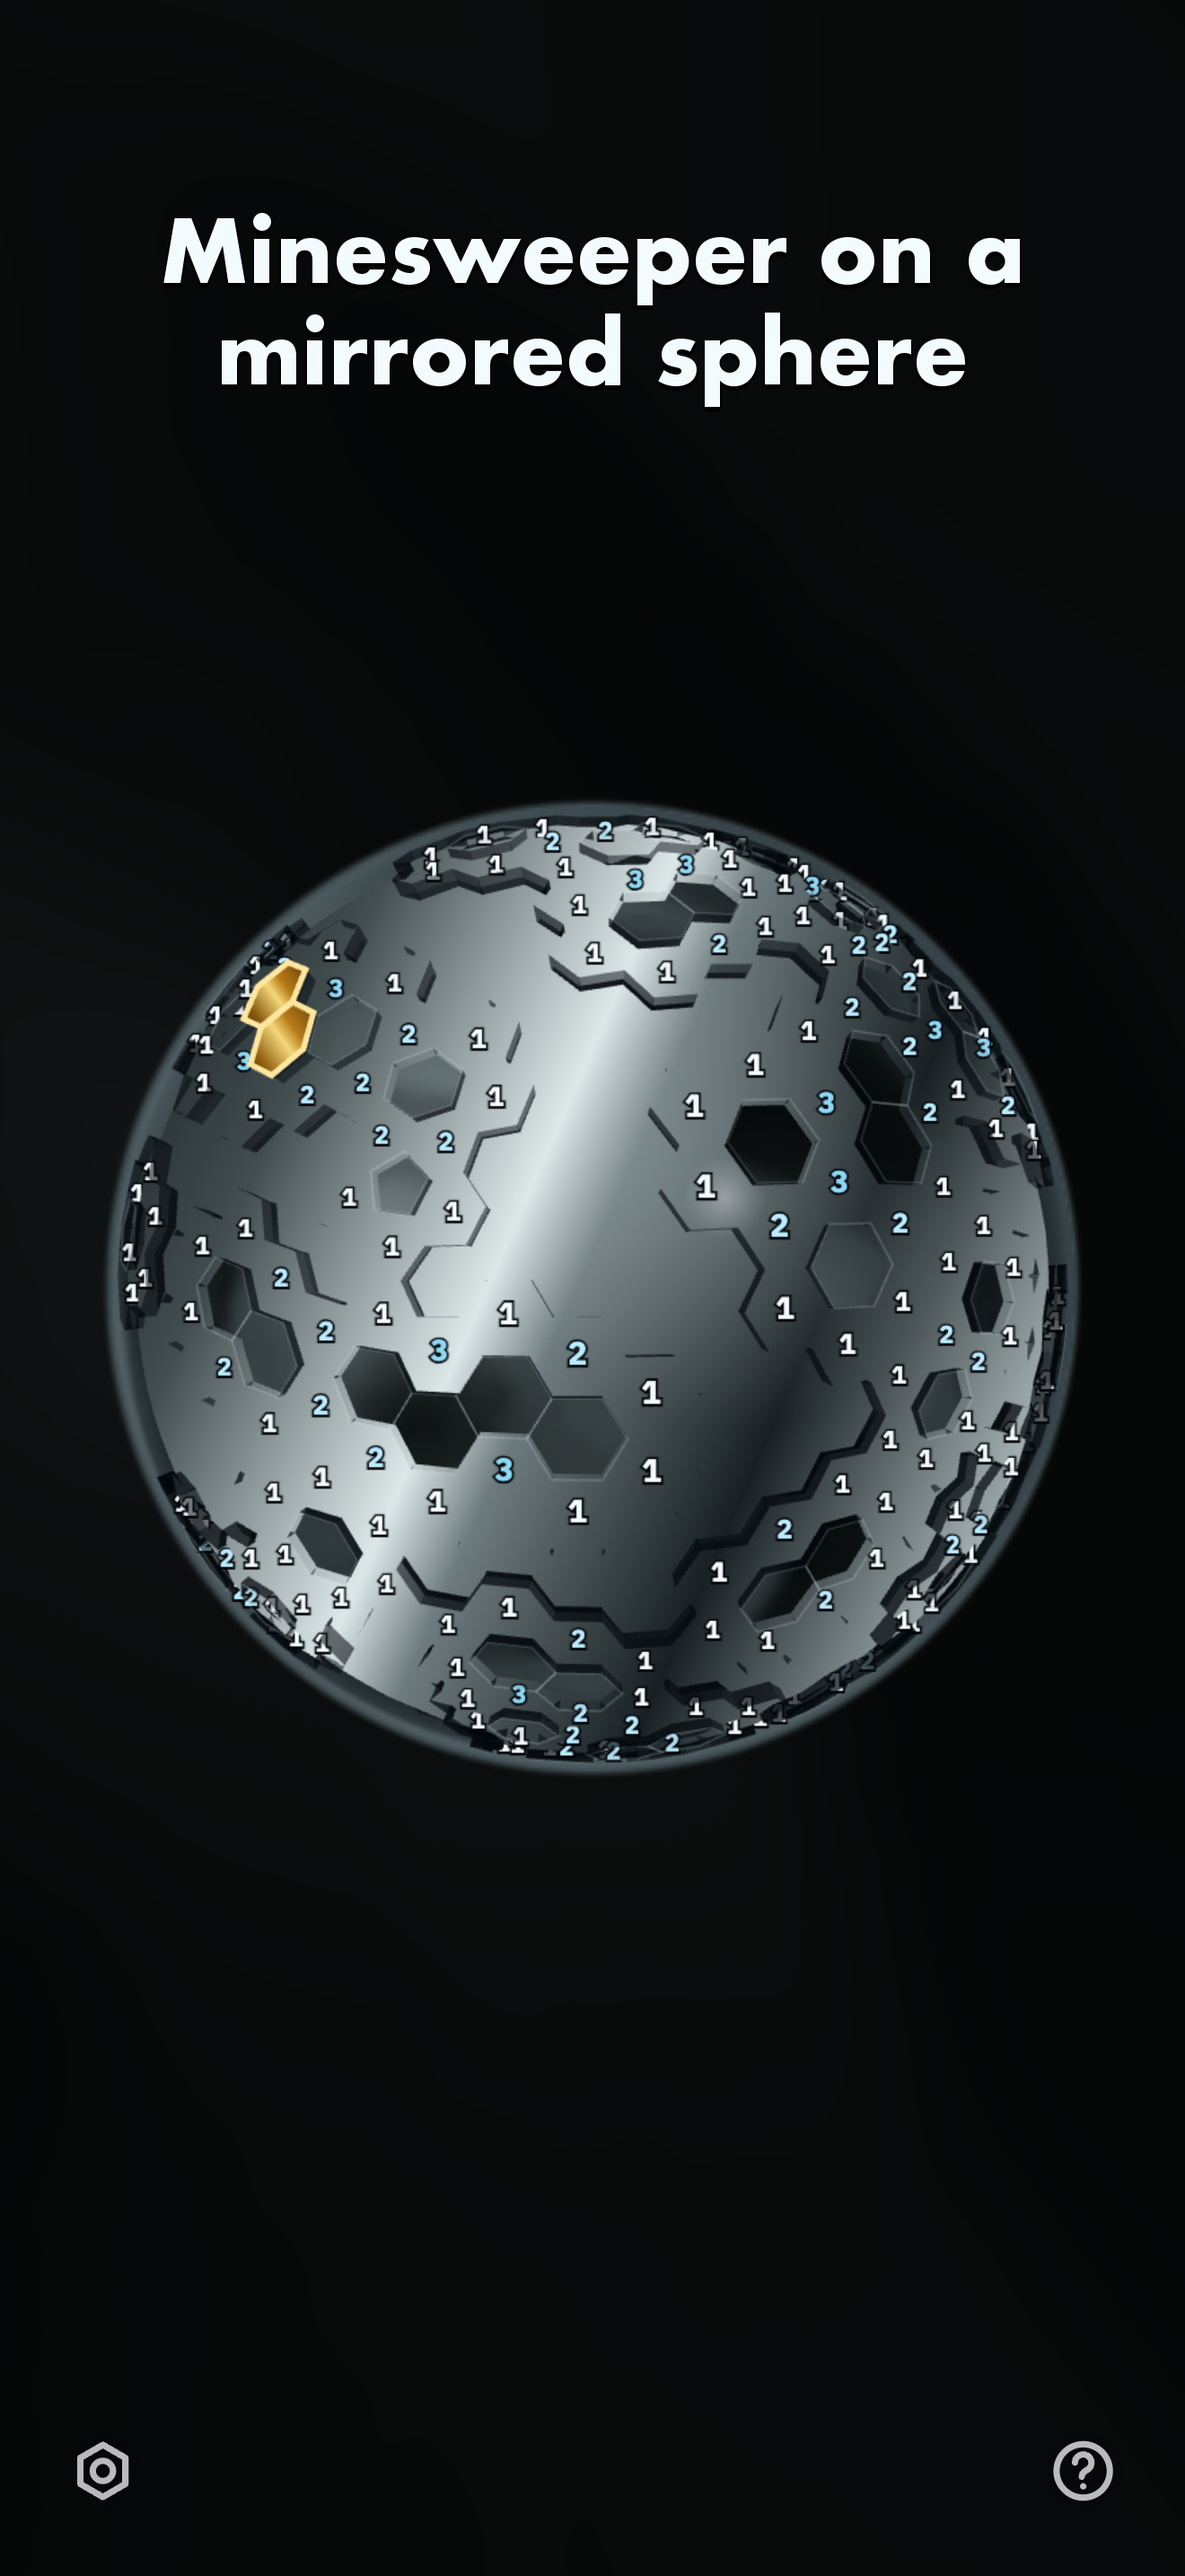
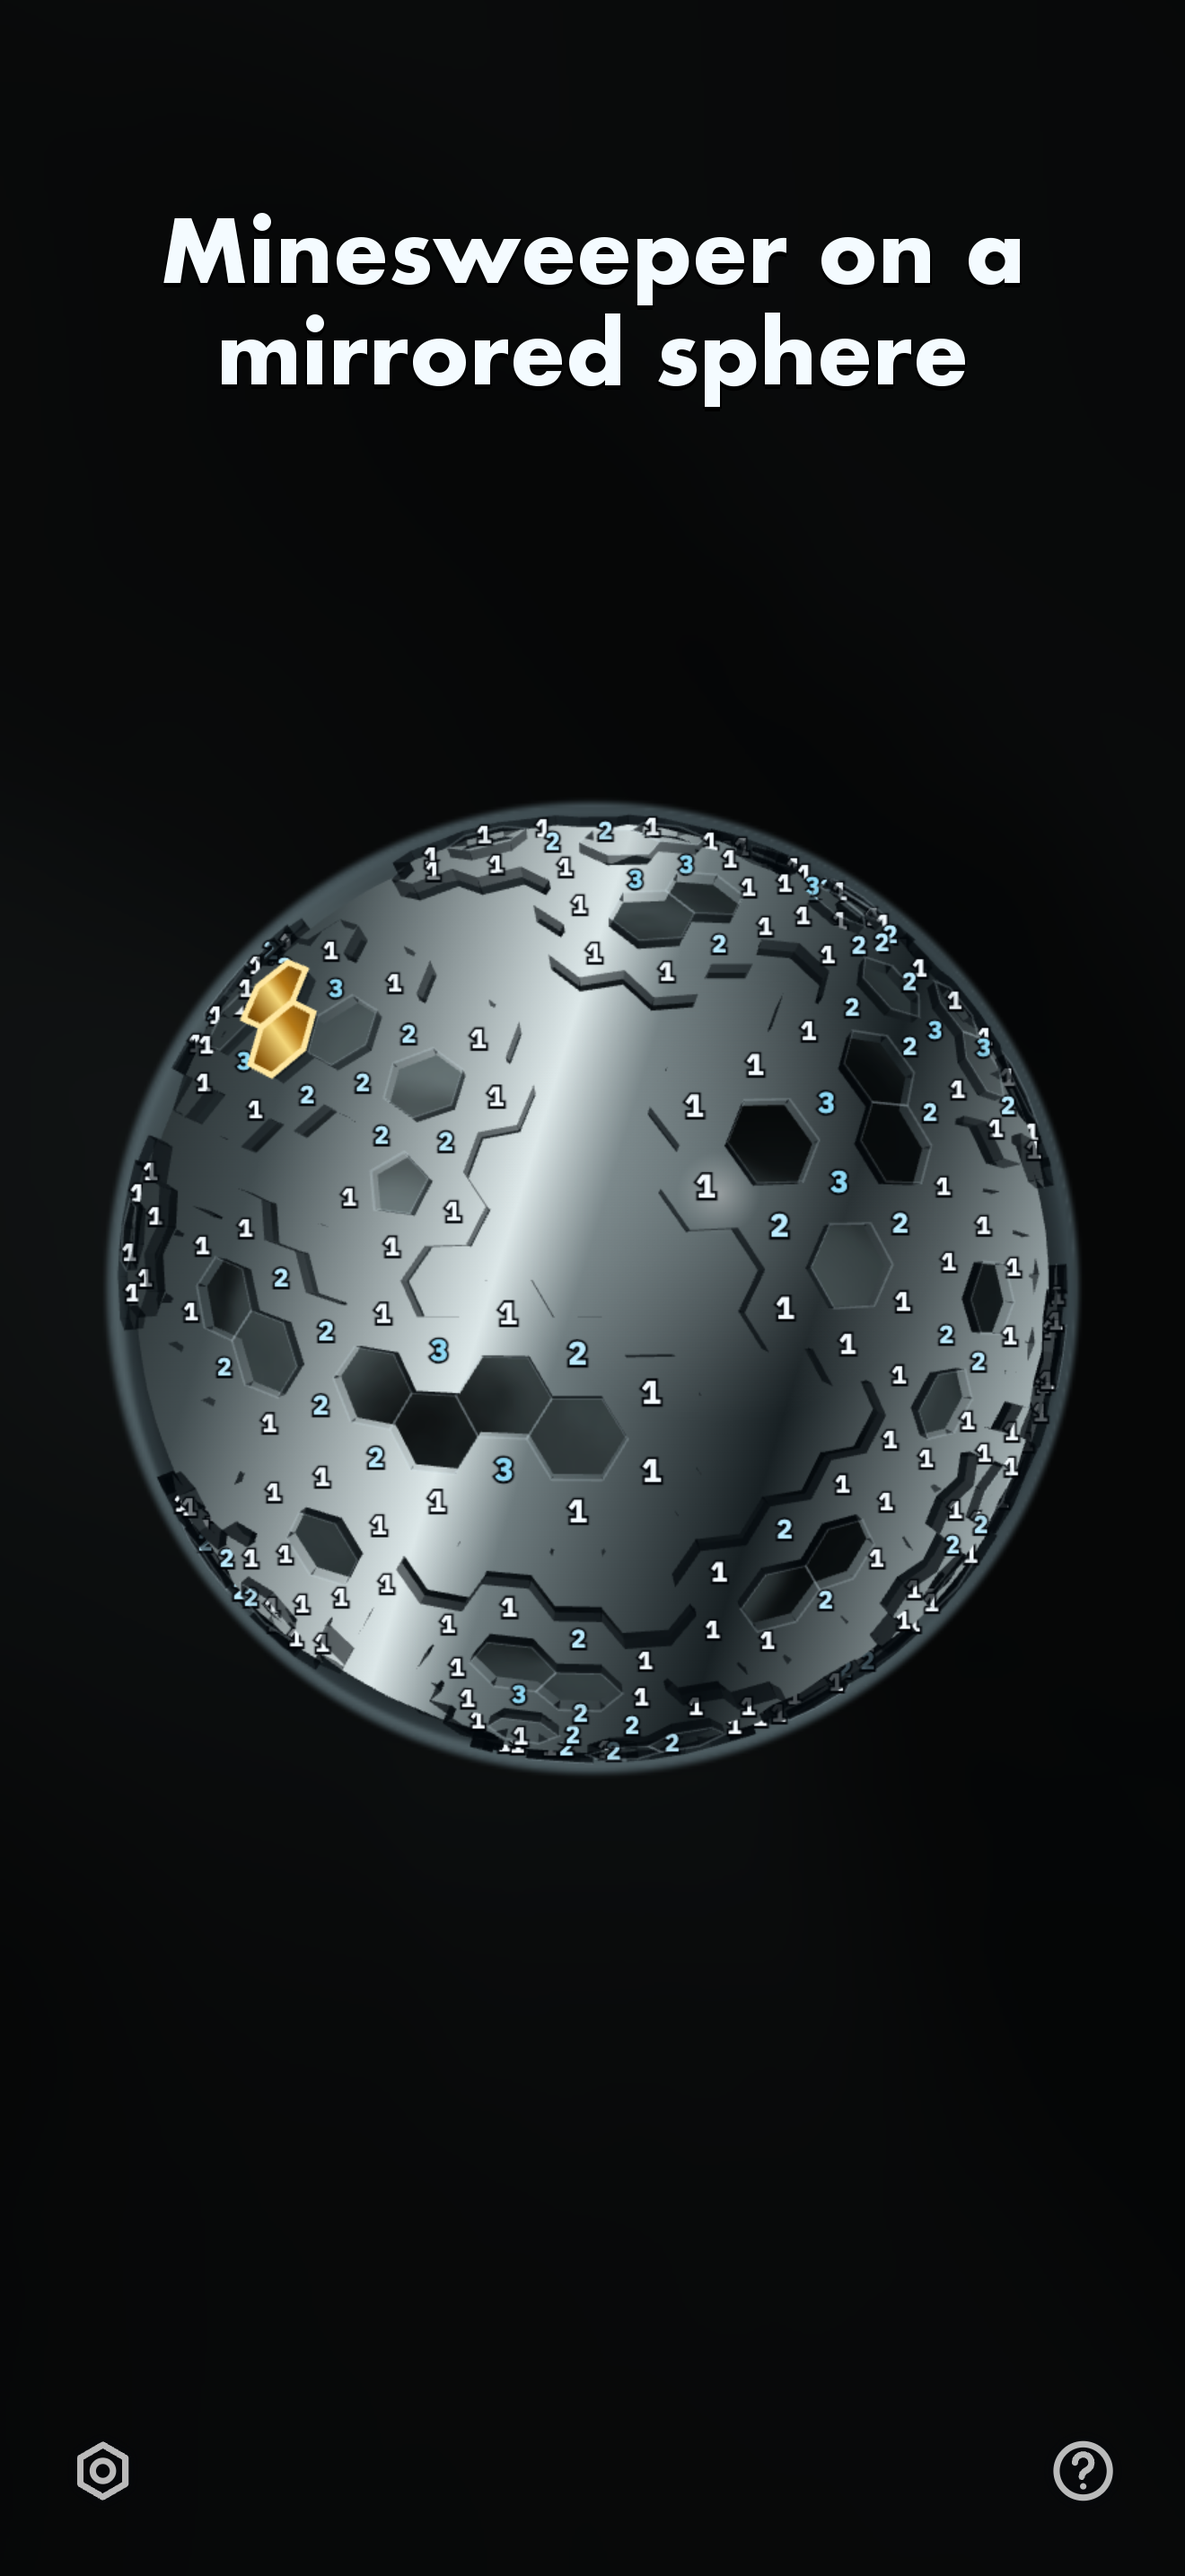
build: flower off the sphere, no scrim blur; TestFlight build 46 attached to 1.0
Payload re-vendored from hexsweeper e7585a0. Store screenshots regenerated
(03-flower now shows the menu below the sphere with the board sharp).
CURRENT_PROJECT_VERSION 45 → 46; build 46 uploaded 2026-08-18 and attached
to the 1.0 version in App Store Connect.

Changed region(s): [[0.4348, 0.3103, 0.6523, 0.4344], [0.1864, 0.5586, 0.4348, 0.6827], [0.5902, 0.6517, 0.6212, 0.6827]]

diff --git a/www/index.html b/www/index.html
@@ -782,14 +782,14 @@ body[data-sphere-chrome="dark"] .cz-dot {
   -webkit-tap-highlight-color: transparent;
 }
 
-/* Full-screen blur plate — only intercepts when open */
+/* Full-screen tap plate — only intercepts when open. Deliberately clear:
+   the flower sits off the sphere and its Theme tile previews on the live
+   board, so nothing may fog or tint the sphere while the menu is up. */
 .hex-bloom-scrim {
   position: absolute;
   inset: 0;
   z-index: 0;
-  background: var(--hb-scrim);
-  -webkit-backdrop-filter: blur(5px) saturate(1.02);
-  backdrop-filter: blur(5px) saturate(1.02);
+  background: transparent;
   opacity: 0;
   visibility: hidden;
   pointer-events: none;
@@ -2411,7 +2411,7 @@ body.help-open { overflow: hidden; }
     </ul>
     <div class="help-body">
       <p>Clear every safe face. Numbers count mines among the six touching neighbors. Solid red faces are flags.</p>
-      <p>Tap the menu button (bottom left) or anywhere outside the sphere to open the center menu: reset, undo, flag mode, board size, theme (Light, Dark, then Stratosphere, Mercury, Ion Storm, Aurora, Galaxy, Gilded Ribbon, Heat Lightning), warning style, and drag inversion. Progress autosaves. Reset or a size change starts a new sphere.</p>
+      <p>Tap the menu button (bottom left) or anywhere outside the sphere to open the menu — it sits beside the board, so theme taps preview live: reset, undo, flag mode, board size, theme (Light, Dark, then Stratosphere, Mercury, Ion Storm, Aurora, Galaxy, Gilded Ribbon, Heat Lightning), warning style, and drag inversion. Progress autosaves. Reset or a size change starts a new sphere.</p>
     </div>
     <p class="help-keys"><kbd>C</kbd> menu · <kbd>F</kbd> flag · <kbd>N</kbd> counts · <kbd>R</kbd> reset · <kbd>?</kbd> help</p>
     <div class="help-history-row">
@@ -10032,6 +10032,34 @@ void main() {
     }
 
     // ---- Hex math (clex) ----
+    /**
+     * Where the center flower sits. It used to sit on the sphere's own
+     * center under a blur plate; with nine themes previewing live that hid
+     * the one thing the menu changes. Now the board stays sharp and the
+     * flower moves off it: below the sphere on portrait phones, beside it on
+     * wide screens, and only when neither fits does it overlap the lower rim.
+     * A flower is three rows: 2.5 × tile height, 3 tiles wide.
+     */
+    function flowerAnchor(w, h) {
+      const disk =
+        typeof game.getSphereScreen === "function" ? game.getSphereScreen() : null;
+      if (!disk || !disk.r) return { cx: w / 2, cy: h / 2 };
+      const { tileH, tileW } = tileMetrics();
+      const flowerH = tileH * 2.5;
+      const flowerW = tileW * 3;
+      const gap = Math.max(10, tileH * 0.16);
+      const bottomChrome = 76; // corner glyphs + home indicator
+      const topChrome = 64; // mines / timer hub
+      const bottomLimit = h - bottomChrome;
+      const belowCy = disk.cy + disk.r + gap + flowerH / 2;
+      if (belowCy + flowerH / 2 <= bottomLimit) return { cx: w / 2, cy: belowCy };
+      const besideCx = disk.cx + disk.r + gap + flowerW / 2;
+      if (besideCx + flowerW / 2 <= w - 12) return { cx: besideCx, cy: disk.cy };
+      // Lower rim: keep the upper two thirds of the sphere clear.
+      const rimCy = Math.min(bottomLimit - flowerH / 2, disk.cy + disk.r * 0.55);
+      return { cx: w / 2, cy: Math.max(topChrome + flowerH / 2, rimCy) };
+    }
+
     function tileMetrics() {
       const cs = getComputedStyle(root);
       const th = parseFloat(cs.getPropertyValue("--tile-h")) || 88;
@@ -10085,7 +10113,7 @@ void main() {
           cy: lowY <= highY ? Math.max(lowY, Math.min(highY, anchor.y)) : h / 2,
         };
       }
-      if (DOCK_CENTER) return { cx: w / 2, cy: h / 2 };
+      if (DOCK_CENTER) return flowerAnchor(w, h);
       const csRoot = getComputedStyle(root);
       const csDock = dock ? getComputedStyle(dock) : csRoot;
       // CSS: .hex-bloom-dock { bottom: max(2px, env(safe-area-inset-bottom)) }
@@ -11619,7 +11647,7 @@ void main() {
             ((stage.clientHeight || global.innerHeight) - 28) / 5
           )
         : 90;
-      const hex = Math.max(
+      let hex = Math.max(
         DOCK_CONTEXT ? (narrowContext ? 36 : 25) : 30,
         Math.min(
           DOCK_CONTEXT ? (narrowContext ? 52 : 66) : 90,
@@ -11628,6 +11656,17 @@ void main() {
             (DOCK_CONTEXT ? (narrowContext ? 0.94 : 0.72) : 1)
         )
       );
+      if (FIXED_CENTER) {
+        // The flower prefers the band below the sphere (see flowerAnchor).
+        // Size to that band when it can still hold a finger-sized tile
+        // (hex 31 → 62×54 tiles); otherwise keep the sphere-derived size and
+        // let the anchor fall back to beside / lower rim.
+        const stageHeight = stage.clientHeight || global.innerHeight;
+        const band = stageHeight - 76 - (disk.cy + disk.r) - Math.max(10, hex * 0.32);
+        const hexBelow = band / 5;
+        if (hexBelow >= 31) hex = Math.min(hex, hexBelow);
+        hex = Math.max(hex, 31);
+      }
       root.style.setProperty("--tile-h", (hex * 2).toFixed(1) + "px");
       root.style.setProperty("--tile-w", (hex * 1.746).toFixed(1) + "px");
     }

diff --git a/docs/DEVICE_VERIFY.md b/docs/DEVICE_VERIFY.md
@@ -20,8 +20,8 @@ and any network dependency is a defect.
 |---|---|---|---|
 | 1 | Cold launch | Launch screen hands off to Sphere with no blank frame between and no prompt; an unfinished sphere run restores in place | |
 | 1a | Corner glyphs | Menu (bottom left) and Help (bottom right) are visible on the closed board, at least 44 pt each, clear of the home indicator; no Games pill anywhere | |
-| 1b | Menu first tap | One tap on the corner Menu opens the center flower; one tap on a flower tile (Undo, Flag, Size…) acts — no second tap needed; the corner glyph reads × while open and closes it | |
-| 1c | Theme tile | The flower's swatch tile cycles Light → Dark → Stratosphere → Mercury → Ion Storm → Aurora → Galaxy → Gilded Ribbon → Heat Lightning; the choice persists across relaunch | |
+| 1b | Menu first tap | One tap on the corner Menu opens the flower **below the sphere** (beside it in landscape) with the board left sharp — no blur; one tap on a flower tile (Undo, Flag, Size…) acts — no second tap needed; the corner glyph reads × while open and closes it | |
+| 1c | Theme tile | The flower's swatch tile cycles Light → Dark → Stratosphere → Mercury → Ion Storm → Aurora → Galaxy → Gilded Ribbon → Heat Lightning, each previewing on the visible sphere as you tap; the choice persists across relaunch | |
 | 1c′ | Textured materials | Stratosphere shows the drifting sky on the mirror (light chrome, dark glass wells); Ion Storm shows the storm cloud trailing the rotation; Galaxy, Gilded Ribbon, Heat Lightning show their textures; Aurora its curtains — all offline, in airplane mode | |
 | 1d | Mercury | Mirrored WebGL body under an etched crust, liquid-metal wells on dig, gilded flags; share card includes the mirror | |
 | 2 | Sphere size | On a phone in portrait the sphere spans roughly 85% of the width; margins above and below still open the flower on tap | |
